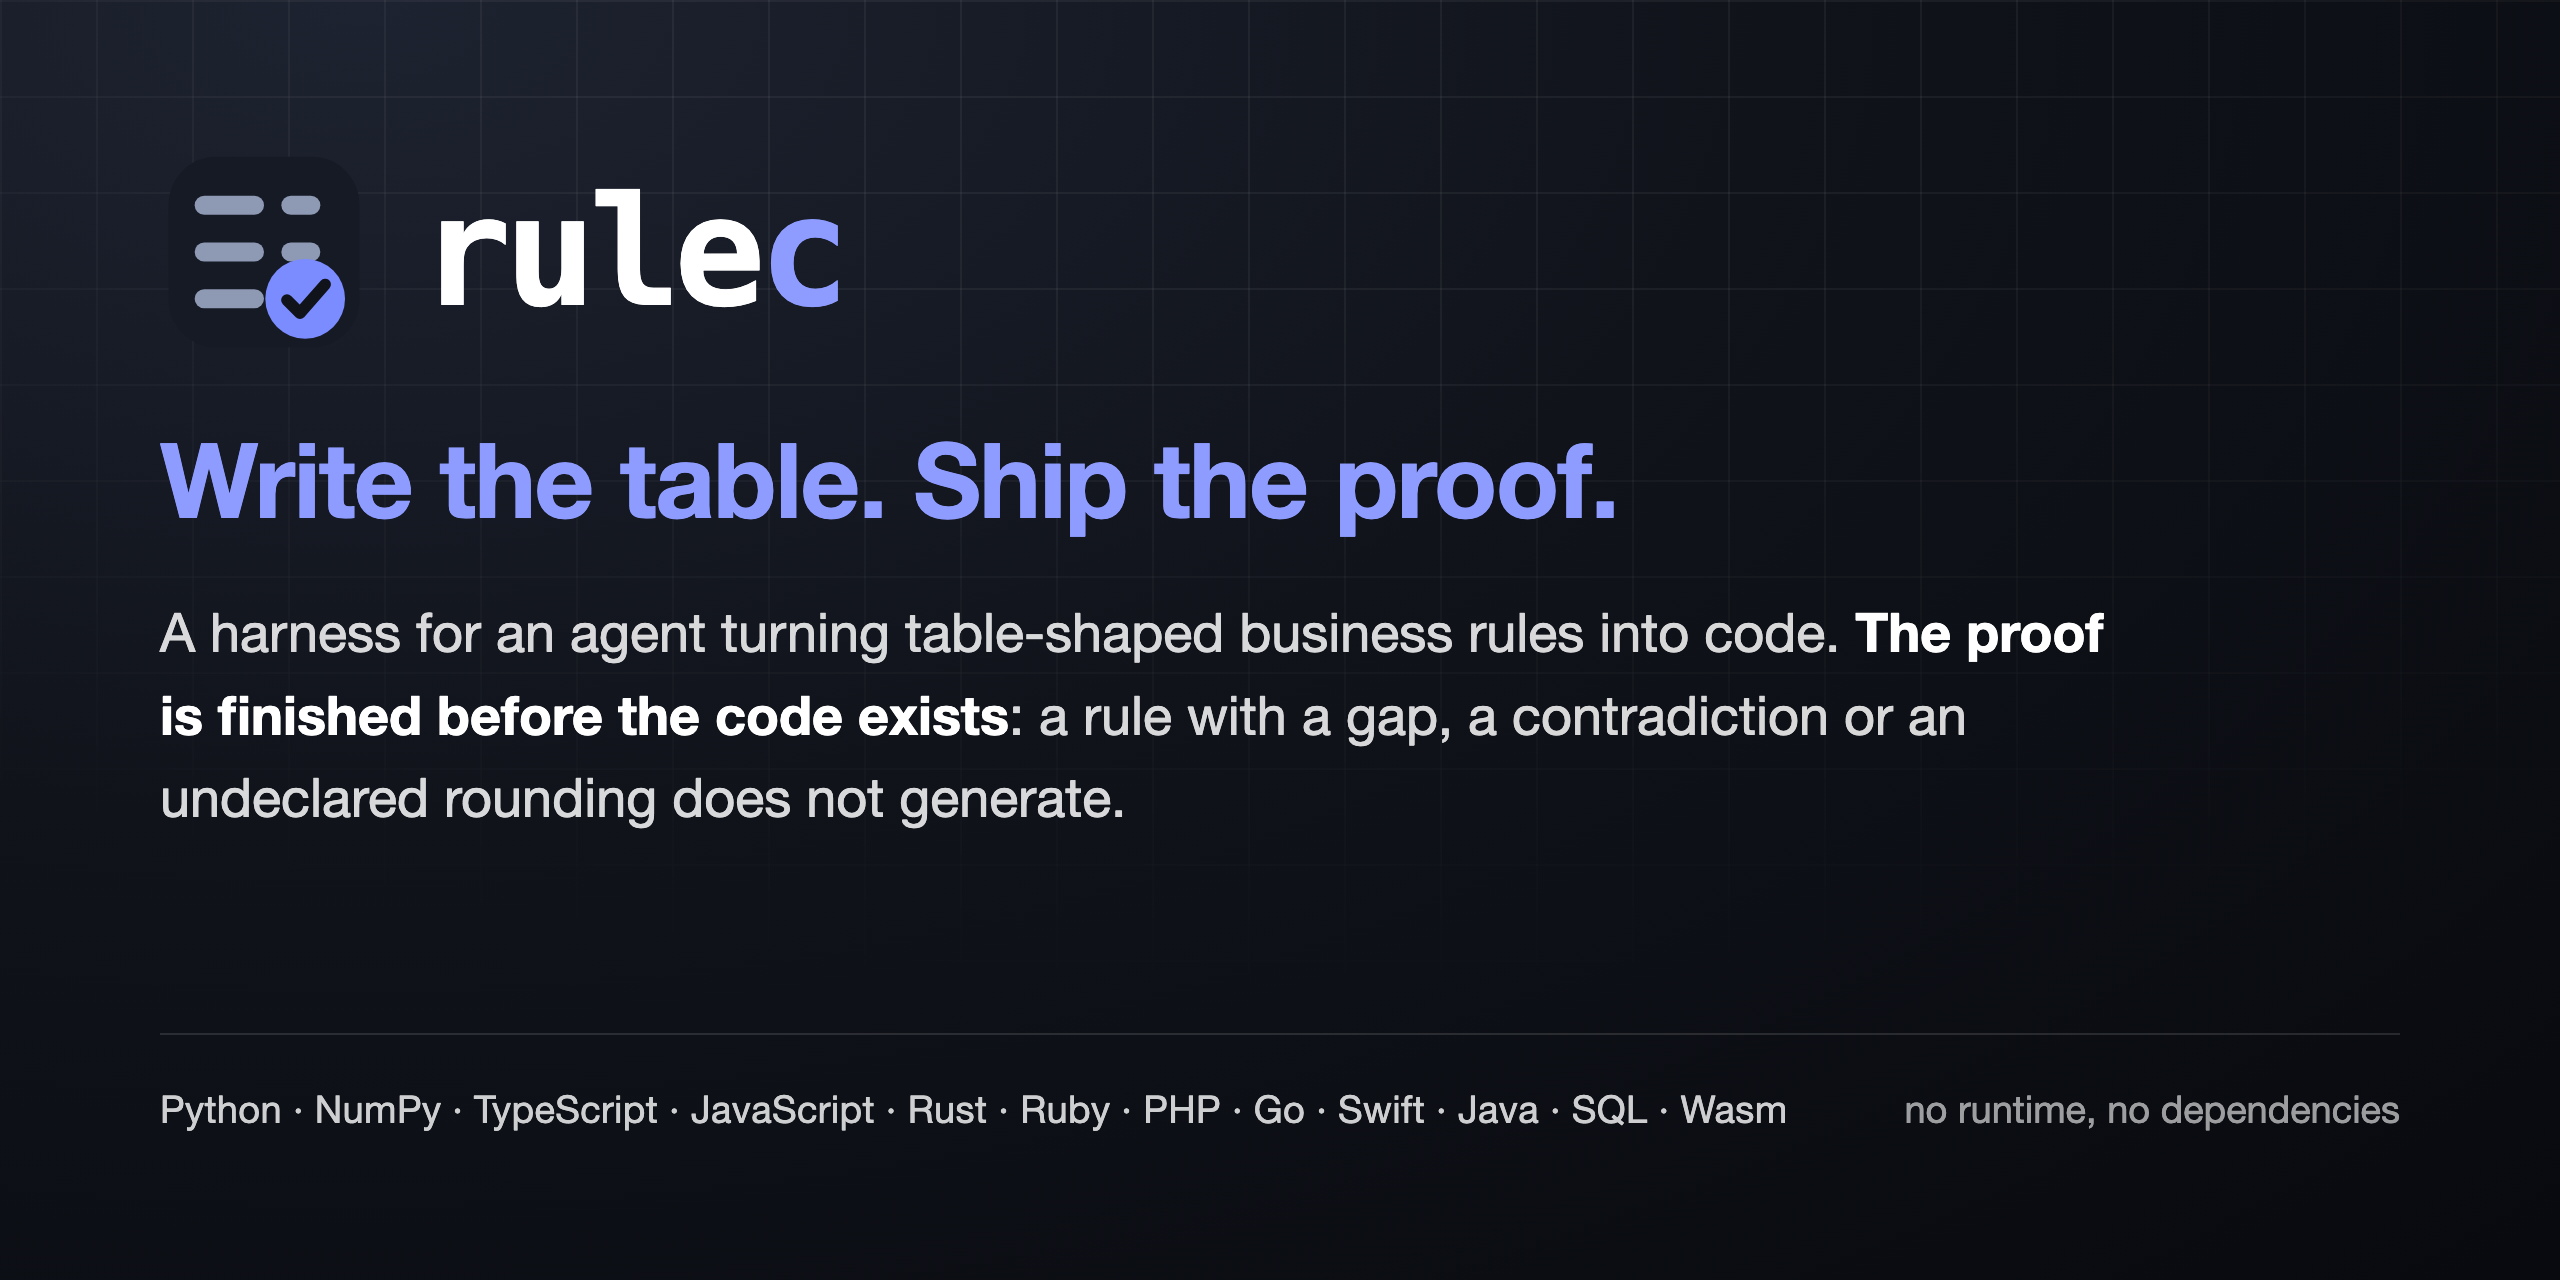
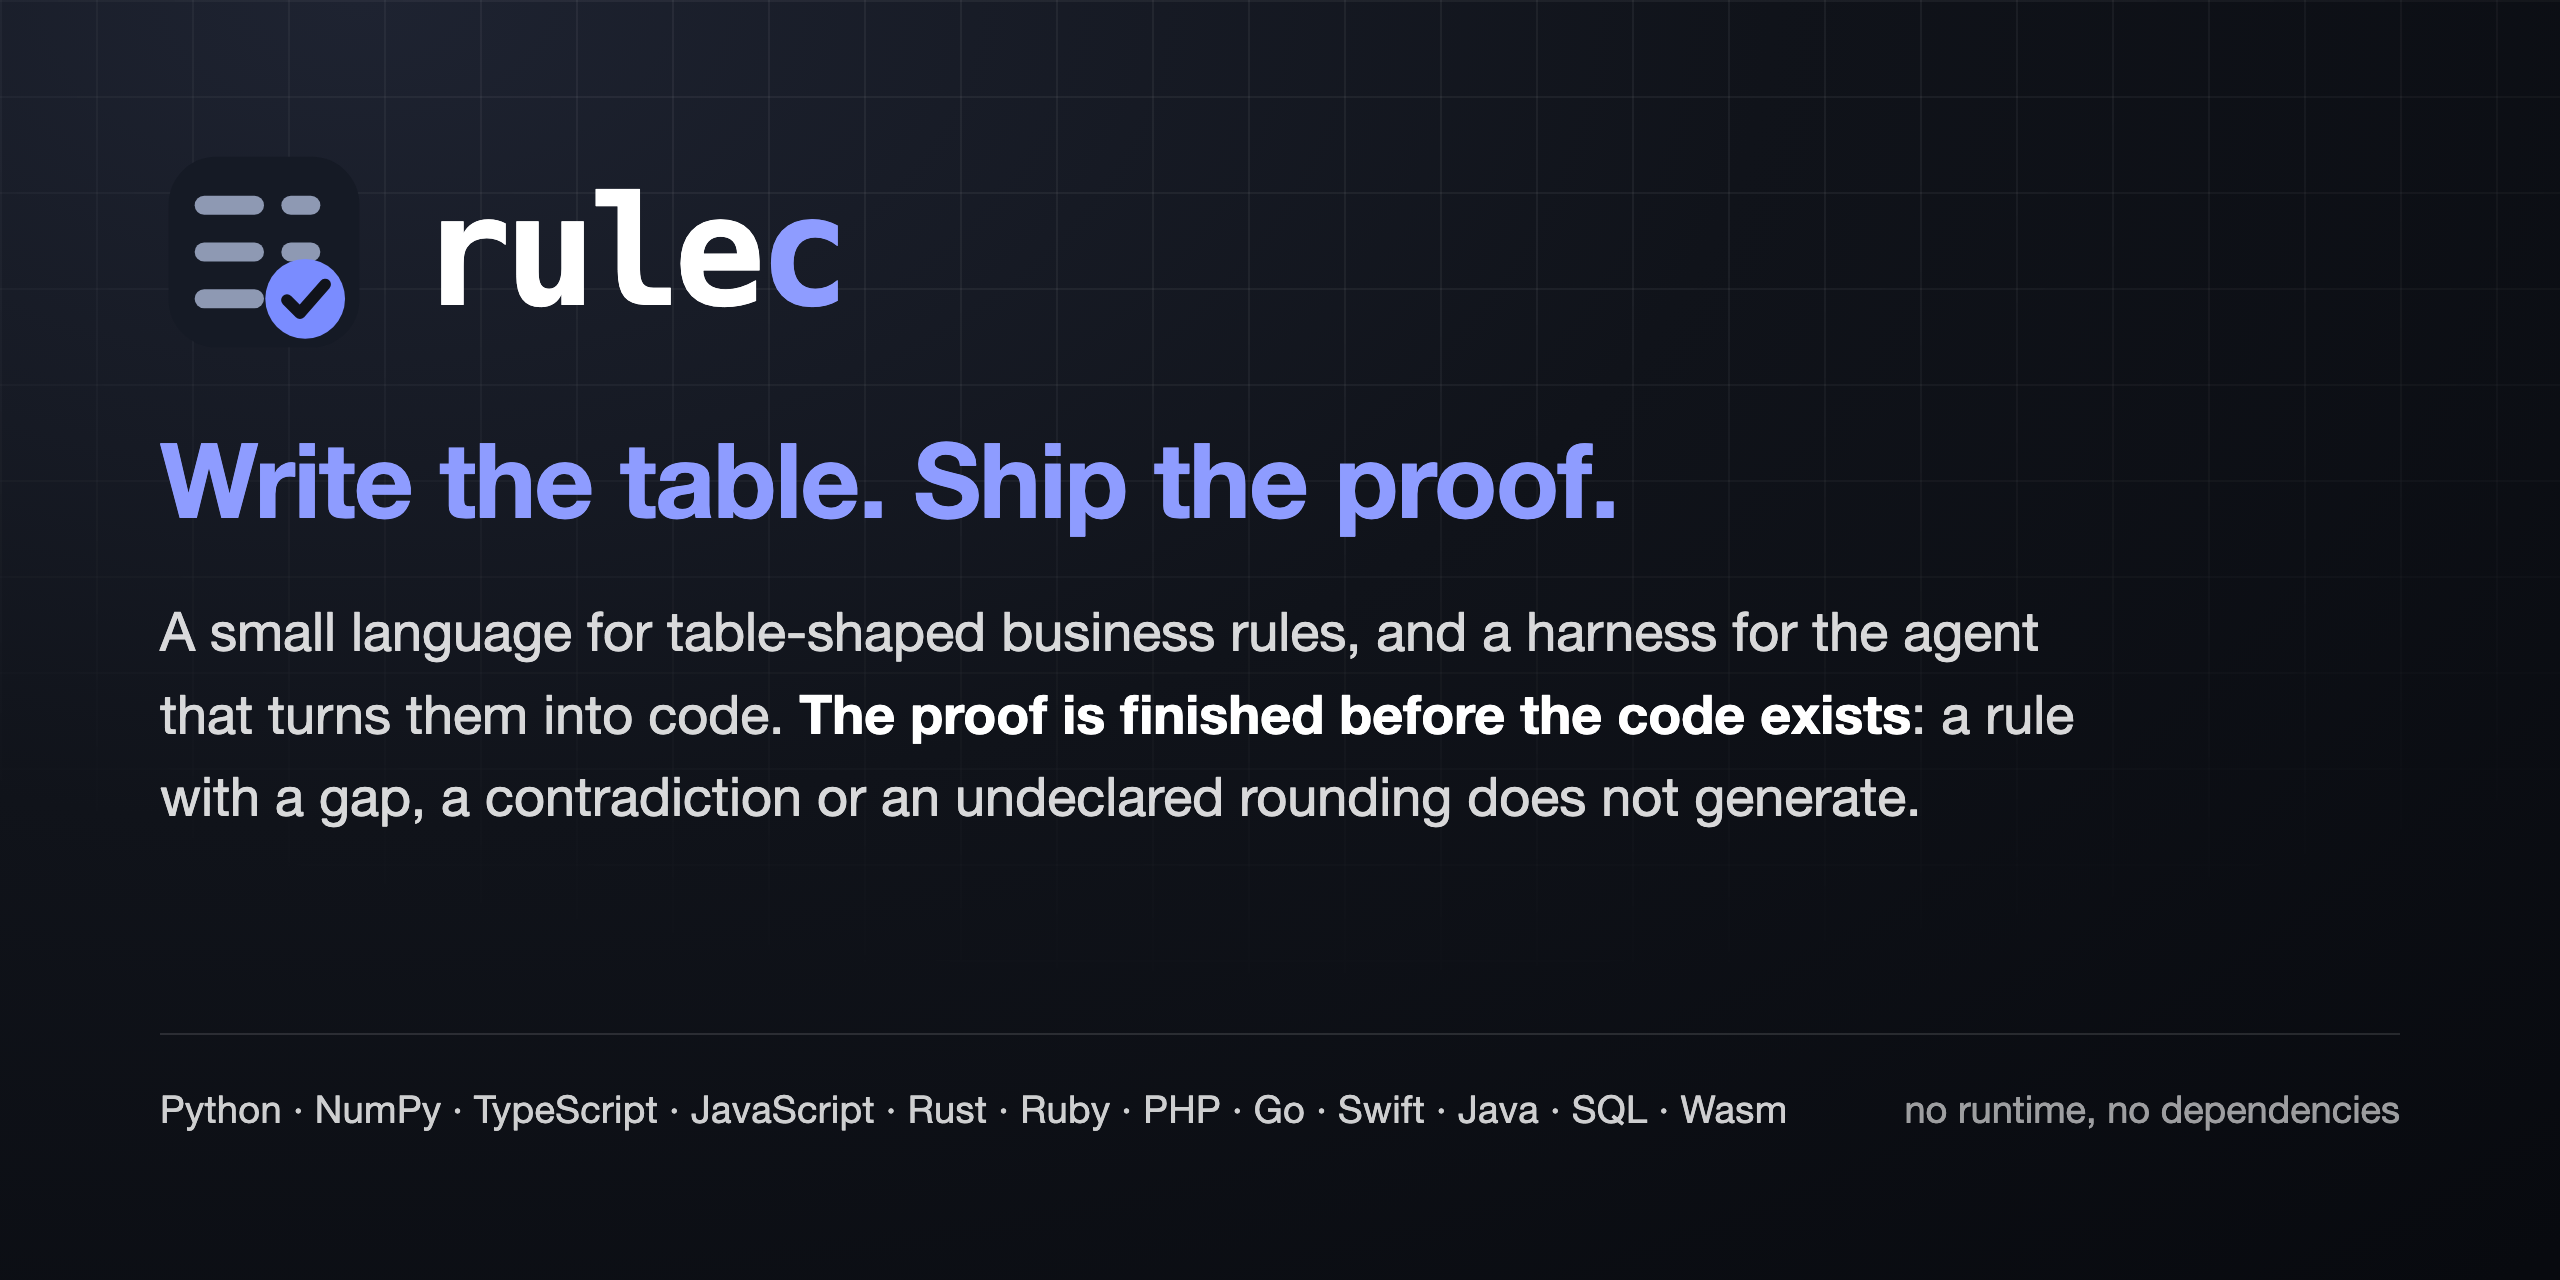
docs: a language at the door, not only a harness
The tagline named the harness and left out what it is a harness for. A rule is written in a
small language with a grammar of its own, and the pages further down had been saying so all
along — "what kind of rule is this language for", "what the language is trying to be" — while
the entrance said only that an agent turns tables into code. Shown a .rule block, a first
reader cannot tell a language from a tool's configuration file.

The same sentence now stands in ten places: the README, the About, both sites' descriptions
and heroes, the two "what this is" headings, the social preview, and Cargo.toml, which had no
description at all. §15.113.

Changed region(s): [[0.0625, 0.4688, 0.8438, 0.6562]]

diff --git a/DESIGN.md b/DESIGN.md
@@ -3315,3 +3315,17 @@ rows = [m.Element(m.Yen(int(e["金額"])),) for e in d["明細"]]
 - **単位をカスタムオプションにすること**（`(rulec.v1.unit) = "円"`）。BSR に publish して `.rule` を読まない人が呼ぶなら価値が出るが、いまはフィールドのコメントと `rulec api` の `request_fields` で足りる。足りなくなったと言えるまで足さない。
 - **ASGI だけにすること、WSGI だけにすること。** 最初は WSGI だけで書いた。`wsgiref` で立つので試すのに何も要らないからである。だが呼び出し側がどちらのサーバを使っているかは、こちらの都合で決まらない。両方出すことにして、標準ライブラリのサーバは「何も入れずに試す道」として WSGI の側に残した。`rulec test` の ASGI 側だけは uvicorn が要るので、無ければそこだけ飛ばす。
 - **rulec 自身が Connect を喋って `verify` すること。** 単項の JSON なら書けるし、HTTP の口はすでに持っている（§15.51 の試験側）。それでもアダプタを外のプロセスに置いたのは、TLS と認証と再試行をそちら側に置けるからである。`source fetch` が curl を呼ぶのと同じ線の引き方である（§12）。
+
+### 15.113 入口で言語だと名乗っていなかった（2026-09-21）
+
+**決定**：看板の一文を「表で書ける業務ルールのための小さな言語と、それをエージェントがコードにするためのハーネス」に替えた。同じ一文を十か所に置いた——README、GitHub の About、両言語の `site_description`、両言語のヒーロー、「これは何か」の見出し二つ、SNS プレビューの画像、そして `Cargo.toml` の `description`。画像は `website/tools/social.sh` が作り直すが、GitHub には上げる API が無いので、設定画面から手で差し替える。
+
+**きっかけ**：`.rule` には文法があり、README は `docs/reference.md` を「the complete grammar」と呼び、サイトには「どんなルールのための言語か」「言語が目指しているもの」という節がある。それなのに入口の一文だけが「エージェントのためのハーネス」で止まっていて、言語という名詞がどこにも出てこなかった。**下のほうでは自分で言っているのに、看板だけが言っていない。** 初めて来た人は `.rule` の塊を見せられても、それが文法のある言語なのか、道具の設定ファイルなのかを判断できない。
+
+**ハーネスは落とさなかった。** 言語だけを名乗ると、この道具が何のために作られたか——書き写しをエージェントにやらせること——が入口から消える。一文に名詞を二つ置いて、どちらも残した。
+
+**捨てたもの**：
+
+- **「プログラムが表である言語」の一本に寄せること。** 言語としては一番強い名乗りだが、エージェント向けという柱が入口から消える。
+- **二文に割ること。** 「業務ルールを表として書く、小さな言語。その表をエージェントがコードにするためのハーネス。」は読みやすいが、二つが別の道具に見える。一つの道具の二つの面である。
+- **`Cargo.toml` の `description` を空のままにすること。** crates.io に出すときに要るうえ、「これは何か」を書く場所がもう一つ空いているだけだった。

diff --git a/website/docs-ja/index.md b/website/docs-ja/index.md
@@ -14,7 +14,7 @@ hide:
 <p class="rc-hero__tag">表を書く。証明はコードより先。</p>
 
 <p class="rc-hero__lede">
-<strong>表で書ける業務ルールを、エージェントがコードにするためのハーネス</strong>です。
+<strong>表で書ける業務ルールのための小さな言語と、それをエージェントがコードにするためのハーネス</strong>です。
 </p>
 
 <p class="rc-hero__lede">
@@ -268,7 +268,7 @@ $ rulec verify rules/送料.rule --adapter python3 adapter.py --lang ja
 | **過去の記録** | まず記録の形を検査してから、規則を記録に当てて再生します。改定なら、何件がいくら動くかが、入れる前に出ます | `rulec fixtures lint` のあと `rulec replay` か `rulec diff`（[突き合わせと再生](compare.md#実際に起きたことと)） |
 
 
-## 表で書ける業務ルールを、エージェントがコードにするためのハーネス
+## 表で書ける業務ルールのための言語と、エージェントのためのハーネス
 
 世の中の業務ルールには、**表で書き表せる**ものが相当あります。すでに表になっているもの（運賃表、手数料率、料金表）もあれば、文章や、担当者のあいだの口伝で伝わっていて、**書き出してみれば表と少しの式で足りる**もの（割引の適用条件、返品の可否、期間ごとの区分、評価項目からのランク付け）もあります。rulec が狙うのは後者も含めた「潜在的に表で書けるもの」全部です。
 

diff --git a/website/docs/index.md b/website/docs/index.md
@@ -14,8 +14,8 @@ hide:
 <p class="rc-hero__tag">Write the table. Ship the proof.</p>
 
 <p class="rc-hero__lede">
-<strong>A harness for an agent turning table-shaped business rules into
-code</strong>.
+<strong>A small language for table-shaped business rules, and a harness for the
+agent that turns them into code</strong>.
 </p>
 
 <p class="rc-hero__lede">
@@ -280,7 +280,7 @@ is deployed, and what comes back is a match rate and the disagreements, clustere
 | **past records** | Validate the records, then replay the rule over them. For a change, how many records move and by how much comes out before it ships | `rulec fixtures lint`, then `rulec replay` / `rulec diff` — [Compare and replay](compare.md#against-what-actually-happened) |
 
 
-## What this is — a harness for an agent turning table-shaped rules into code
+## What this is — a language for table-shaped rules, and a harness for an agent
 
 A great many business rules **can be written as a table**. Some already are — a shipping
 tariff, a fee schedule, a price list. Others live in prose, or in what people just know, and

diff --git a/README.md b/README.md
@@ -1,6 +1,7 @@
 # rulec
 
-**A harness for an agent turning table-shaped business rules into code.**
+**A small language for table-shaped business rules, and a harness for the agent that turns
+them into code.**
 
 Write the table, and out come Python, NumPy, TypeScript, JavaScript, Rust, Ruby, PHP, Go,
 Swift, Java, SQL and Wasm — ordinary functions with no runtime, no configuration and no
